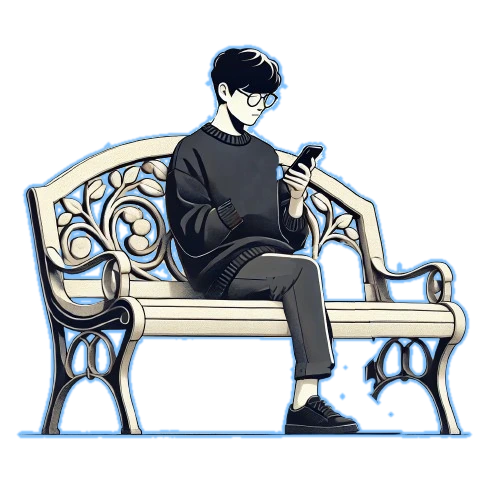
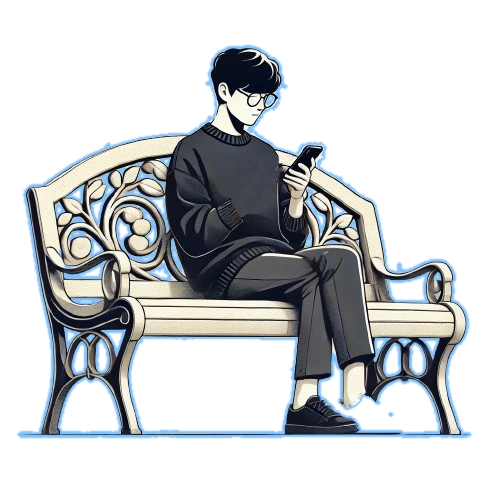
Escena del banco reconstruida desde el dibujo completo: sin costuras en la pierna ni en la mano
El cuerpo vuelve a llevar las dos piernas y las dos manos tal cual las dibujó Marco (bancoymarco.png); las
capas móviles son ahora solo el zapato delantero (pivota en el tobillo y da dos golpecitos con la punta cada
3,6 s) y la mano del móvil (±3° en la muñeca, alargada dentro del puño), con dos parches por encima (la
punta del zapato trasero y el puño del jersey) que tapan las juntas. Las capas antiguas estaban desplazadas
39 px y el recorte de la pierna llevaba un pie repintado con un corte recto: de ahí la costura. En reposo el
compuesto reproduce el dibujo píxel a píxel; el brillo del móvil queda sobre la pantalla; con
prefers-reduced-motion se muestra la pose dibujada. tools/images.py admite --only bench. 18 jobs en
tools/shots/bench.json (reposo, extremos, reduced-motion, móvil, DPR 2 y 3).

Changed region(s): [[0.54, 0.48, 0.78, 0.84], [0.54, 0.33, 0.57, 0.36]]

diff --git a/src/styles/site.css b/src/styles/site.css
@@ -560,11 +560,16 @@
     background: radial-gradient(60% 46% at 28.7% 15.2%, rgba(41, 151, 255, 0.22), rgba(41, 151, 255, 0.06) 45%, transparent 72%);
   }
   .scene__lamp { inset: 0; width: 100%; height: 100%; z-index: 2; }
+  /* capas recortadas del dibujo de 500 px (tools/images.py, build_bench): left = x/5 %,
+     top = 20 % + 0,16·y %, width = w/5 %. En reposo reproducen el dibujo; al moverse, la
+     puntera trasera tapa el talón del zapato y el puño tapa la muñeca */
   .scene__body { left: 0; top: 20%; width: 100%; height: auto; z-index: 3; }
-  .scene__leg { left: 44.8%; top: 56.2%; width: 35%; height: auto; z-index: 4; transform-origin: 30% 12%; }
-  .scene__hand { left: 43%; top: 43.7%; width: 19.2%; height: auto; z-index: 5; transform-origin: 12% 88%; }
+  .scene__leg { left: 65.4%; top: 82.72%; width: 17%; height: auto; z-index: 4; transform-origin: 16.5% 21.4%; } /* zapato; pivota en el tobillo */
+  .scene__toe { left: 64.8%; top: 83.52%; width: 7.2%; height: auto; z-index: 5; }
+  .scene__hand { left: 45%; top: 44.8%; width: 13.8%; height: auto; z-index: 6; transform-origin: 10% 85.9%; } /* pivota en la muñeca, dentro del puño */
+  .scene__cuff { left: 44%; top: 51.36%; width: 4.2%; height: auto; z-index: 7; }
   .scene__phone {
-    left: 48.5%; top: 35%; width: 8%; height: 8%; z-index: 6; opacity: 0.55; mix-blend-mode: screen;
+    left: 55.2%; top: 40.8%; width: 9.6%; height: 7.68%; z-index: 8; opacity: 0.55; mix-blend-mode: screen;
     background: radial-gradient(closest-side, var(--action) 0%, rgba(41, 151, 255, 0.4) 45%, transparent 100%);
     filter: blur(4px);
   }
@@ -1182,14 +1187,20 @@
   html.js .timeline__item[data-reveal] { transform: translateY(12px); }
 
   /* escena del banco */
-  .scene__leg { animation: swing 2.4s var(--ease-in-out) infinite alternate; }
+  .scene__leg { animation: foot-tap 3.6s linear infinite; }
   .scene__hand { animation: hand-tilt 4s var(--ease-in-out) infinite alternate; }
   .scene__stars--a { animation: twinkle-a 3s ease-in-out infinite alternate; }
   .scene__stars--b { animation: twinkle-b 5s ease-in-out infinite alternate; }
   .scene__lamp-head { animation: flicker 9s linear infinite; }
   .scene__phone { animation: phone-glow 4s ease-in-out infinite alternate; }
   .scene.is-offscreen *, .scene.is-hidden * { animation-play-state: paused !important; }
-  @keyframes swing { from { transform: rotate(-6deg); } to { transform: rotate(6deg); } }
+  /* dos golpecitos con la punta y una pausa; solo hacia arriba, así la suela nunca baja del suelo */
+  @keyframes foot-tap {
+    0%, 17% { transform: rotate(0deg); animation-timing-function: ease-out; }
+    9% { transform: rotate(-7deg); animation-timing-function: ease-in; }
+    26% { transform: rotate(-6deg); animation-timing-function: ease-in; }
+    34%, 100% { transform: rotate(0deg); }
+  }
   @keyframes hand-tilt { from { transform: rotate(3deg); } to { transform: rotate(-3deg); } }
   @keyframes twinkle-a { from { opacity: 0.55; } to { opacity: 0.2; } }
   @keyframes twinkle-b { from { opacity: 0.2; } to { opacity: 0.55; } }
@@ -1227,7 +1238,7 @@
     .lava__blob--3 { scale: 1.16 .86; }
     .lava__blob--4 { scale: .92 1.14; }
     .lava__blob--2 { scale: 1.04 .96; }
-    .scene__leg { transform: rotate(2deg); }
+    .scene__leg, .scene__hand { transform: none; } /* la pose del dibujo, con el pie apoyado */
     .scene__stars { opacity: 0.4; }
     .card:hover .card__media img { transform: none; }
     .arrow, .btn, .chip, .action, .nav { transition: none; }

diff --git a/index.html b/index.html
@@ -738,8 +738,10 @@
               <div class="scene__stars scene__stars--b" aria-hidden="true"></div>
               <div class="scene__cone" aria-hidden="true"></div>
               <img class="scene__body ill" src="/src/assets/img/bench/body.webp" srcset="/src/assets/img/bench/body.webp 500w, /src/assets/img/bench/body@2x.webp 1000w" sizes="(min-width: 1080px) 440px, 90vw" width="500" height="500" loading="lazy" decoding="async" alt="">
-              <img class="scene__leg" src="/src/assets/img/bench/leg.webp" srcset="/src/assets/img/bench/leg.webp 175w, /src/assets/img/bench/leg@2x.webp 350w" sizes="(min-width: 1080px) 154px, 32vw" width="175" height="236" loading="lazy" decoding="async" alt="">
-              <img class="scene__hand" src="/src/assets/img/bench/hand.webp" srcset="/src/assets/img/bench/hand.webp 83w, /src/assets/img/bench/hand@2x.webp 166w" sizes="(min-width: 1080px) 85px, 18vw" width="83" height="78" loading="lazy" decoding="async" alt="">
+              <img class="scene__leg" src="/src/assets/img/bench/leg.webp" srcset="/src/assets/img/bench/leg.webp 85w, /src/assets/img/bench/leg@2x.webp 170w" sizes="(min-width: 1080px) 74.8px, 15.3vw" width="85" height="42" loading="lazy" decoding="async" alt="">
+              <img class="scene__toe" src="/src/assets/img/bench/toe.webp" srcset="/src/assets/img/bench/toe.webp 36w, /src/assets/img/bench/toe@2x.webp 72w" sizes="(min-width: 1080px) 31.68px, 6.48vw" width="36" height="36" loading="lazy" decoding="async" alt="">
+              <img class="scene__hand" src="/src/assets/img/bench/hand.webp" srcset="/src/assets/img/bench/hand.webp 69w, /src/assets/img/bench/hand@2x.webp 138w" sizes="(min-width: 1080px) 60.72px, 12.42vw" width="69" height="64" loading="lazy" decoding="async" alt="">
+              <img class="scene__cuff" src="/src/assets/img/bench/cuff.webp" srcset="/src/assets/img/bench/cuff.webp 21w, /src/assets/img/bench/cuff@2x.webp 42w" sizes="(min-width: 1080px) 18.48px, 3.78vw" width="21" height="27" loading="lazy" decoding="async" alt="">
               <div class="scene__phone" aria-hidden="true"></div>
             </div>
           </div>

diff --git a/tools/images.py b/tools/images.py
@@ -1,12 +1,12 @@
 #!/usr/bin/env python3
 """Genera los assets de imagen del portafolio v2 a partir de los originales.
 
-Uso (desde la raíz del repo):  python tools/images.py
+Uso (desde la raíz del repo):  python tools/images.py  [--only bench|rig|hero|projects]
 Requiere: Pillow, numpy, scipy  (tools/requirements.txt)
 
 Salidas en src/assets/img/:
   rig/       base, lips, eyes, brow-l, brow-r, glasses, hand, cup (+ @2x), fallback (+ @2x)
-  bench/     body, leg, hand (+ @2x)
+  bench/     body, leg (zapato), toe, hand, cuff (+ @2x)
   character/ hero-bust-800, hero-bust-1024
   projects/  bot, tareas, nakoa, cinema en 640/960/1280 (o el ancho nativo si es menor)
 Y la geometría medida del rig en tools/rig-geometry.json (unidades rig-1000).
@@ -14,6 +14,7 @@ Y la geometría medida del rig en tools/rig-geometry.json (unidades rig-1000).
 from __future__ import annotations
 
 import json
+import sys
 from pathlib import Path
 
 import numpy as np
@@ -246,20 +247,180 @@ def build_rig() -> None:
 
 
 # ------------------------------------------------------------------------- bench
+# La escena se reconstruye a partir del dibujo COMPLETO (bancoymarco.png) y de la version del
+# autor sin el pie delantero ni la mano del movil (bancomarcoamp.png: jersey pintado bajo la
+# mano y retoques sueltos, como el cristal derecho de las gafas). Asi, en reposo, las capas
+# superpuestas dan exactamente el dibujo (con esos retoques) y las juntas quedan tapadas:
+#   body  el cuerpo, con la pierna delantera entera salvo el zapato; lleva el rim (estatico)
+#   leg   el zapato delantero: da golpecitos con la punta pivotando en el tobillo
+#   toe   la puntera del zapato trasero, que en el dibujo tapa el talon del delantero
+#   hand  la mano del movil, alargada ~9 px por dentro del puno; pivota en la muneca
+#   cuff  el puno de la manga, por encima de la mano
+# Todo en el lienzo de 500 px del dibujo; el CSS coloca cada capa por su caja (se imprime).
+BENCH_FULL, BENCH_AMP = "bancoymarco.png", "bancomarcoamp.png"
+BENCH_HAND_AT = (220, 144)  # hand.png sobre el dibujo completo (error medio ~1 nivel)
+# pivote del pie: el tobillo, bajo el borde trasero del zapato. Asi el borde no resbala sobre
+# el calcetin; lo que se desliza (~4 px) es el talon, que queda detras de la puntera trasera
+BENCH_ANKLE = (341.0, 401.0)
+BENCH_CUT = ((232.0, 200.0), (240.5, 215.0))  # corte recto de la muneca = borde del puno
+BENCH_WRIST_DEPTH = 5.0  # el pivote de la mano va 5 px dentro del puno
+# Primera fila del zapato en cada columna (x): por encima quedan el calcetin y la pata del
+# banco, que no se mueven. Medido a mano sobre el dibujo (x <= 342: 397; x >= 373: 393).
+BENCH_COLLAR = {
+    343: 403, 344: 404, 345: 405, 346: 405, 347: 405, 348: 405, 349: 405, 350: 404, 351: 404,
+    352: 403, 353: 403, 354: 402, 355: 402, 356: 401, 357: 398, 358: 396, 359: 395, 360: 394,
+    361: 393, 362: 392, 363: 392, 364: 392, 365: 392, 366: 393, 367: 393, 368: 393, 369: 394,
+    370: 394, 371: 394, 372: 394,
+}
+
+
+def _premul(a: np.ndarray) -> np.ndarray:
+    return a[..., :3] * (a[..., 3:4] / 255.0)
+
+
+def _rim_alpha(mask: np.ndarray, radius: int, opacity: float = 0.6) -> np.ndarray:
+    """La misma luz de borde que bake_rim, como alfa 0..1."""
+    dil = ndi.binary_dilation(mask, iterations=radius)
+    return np.clip(ndi.gaussian_filter(dil.astype(np.float32) * opacity, 0.8), 0, 1)
+
+
+def _nearest_fill(arr: np.ndarray, src: np.ndarray, dst: np.ndarray) -> None:
+    """Pinta los pixeles dst con el color (opaco) del pixel src mas cercano."""
+    _, (iy, ix) = ndi.distance_transform_edt(~src, return_indices=True)
+    ys, xs = np.where(dst)
+    arr[ys, xs, :3] = arr[iy[ys, xs], ix[ys, xs], :3]
+    arr[ys, xs, 3] = 255
+
+
+def _row_fill(arr: np.ndarray, src: np.ndarray, dst: np.ndarray, reach: int) -> None:
+    """Pinta dst con el pixel src mas cercano a su derecha en la misma fila (o el mas cercano)."""
+    _, (iy, ix) = ndi.distance_transform_edt(~src, return_indices=True)
+    for y, x in zip(*np.where(dst)):
+        right = np.flatnonzero(src[y, x : x + reach])
+        sy, sx = (y, x + right[0]) if len(right) else (iy[y, x], ix[y, x])
+        arr[y, x, :3] = arr[sy, sx, :3]
+        arr[y, x, 3] = 255
+
+
+def bench_masks(F: np.ndarray, A: np.ndarray) -> dict:
+    """Mascaras en el lienzo de 500 a partir del completo (F) y el amputado (A)."""
+    H, W = F.shape[:2]
+    yy, xx = np.mgrid[0:H, 0:W]
+    diff = np.abs(_premul(F) - _premul(A)).sum(-1) + np.abs(F[..., 3] - A[..., 3])
+    lab, _ = ndi.label(diff > 12)
+    leg_all = lab == lab[330, 350]  # la pierna delantera que el autor borro
+    # zapato: lo borrado por debajo del borde del calcetin
+    top = np.full(W, 393)
+    top[:343] = 397
+    for x, y in BENCH_COLLAR.items():
+        top[x] = y
+    zone = (yy >= top[xx]) & (xx >= 333) & (xx <= 412) & (yy <= 432)
+    shoe = ndi.binary_fill_holes(leg_all & zone)
+    shoe |= ndi.binary_dilation(shoe, iterations=2) & zone & (F[..., 3] > 0) & (A[..., 3] < 8)
+    # puntera del zapato trasero (por delante del talon del delantero); la fila 432 a la
+    # derecha es la sombra que el autor pinto bajo la suela y se queda en el cuerpo
+    # (semitransparente solo contra el zapato: contra el fondo, doblaria el borde del cuerpo)
+    toe = (xx >= 324) & (xx <= 362) & (yy >= 396) & (yy <= 432)
+    toe &= (A[..., 3] > 250) | ((A[..., 3] > 0) & ndi.binary_dilation(shoe, iterations=1))
+    toe &= ~((yy == 432) & (xx >= 356)) & ~(leg_all & ~shoe)
+    # talon oculto tras la puntera (asoma al girar) y los pixeles del zapato pegados a ella,
+    # que llevan mezclado el perfil claro de la puntera: se rehacen con la propia suela
+    hidden = ndi.binary_dilation(shoe, iterations=6) & toe & ~shoe
+    hidden |= shoe & ndi.binary_dilation(toe, iterations=1) & (yy >= 414)
+    # mano: lo borrado alrededor de hand.png, sin pasar del corte de la muneca
+    hp = np.zeros((H, W), np.float32)
+    ha = np.array(rgba(OLD / "hand.png"))[..., 3] / 255.0
+    hx, hy = BENCH_HAND_AT
+    hp[hy : hy + ha.shape[0], hx : hx + ha.shape[1]] = ha
+    (x0, y0), (x1, y1) = BENCH_CUT
+    t = np.array([x1 - x0, y1 - y0])
+    cut_len = float(np.hypot(*t))
+    t /= cut_len
+    n = np.array([t[1], -t[0]])  # normal hacia la mano
+    u = (xx + 0.5 - x0) * n[0] + (yy + 0.5 - y0) * n[1]
+    v = (xx + 0.5 - x0) * t[0] + (yy + 0.5 - y0) * t[1]
+    hand = (((lab == lab[180, 262]) & ndi.binary_dilation(hp > 0.05, iterations=2)) | (hp > 0.5)) & (u > -0.5)
+    # puno: una franja de 12 px mas alla del corte; la mano se alarga 9 px por debajo
+    cuff = (u >= -12) & (u < 2.5) & (v >= -3) & (v <= cut_len + 3) & ~hand
+    ext = (u >= -9) & (u < 0.5) & (v >= 0.3) & (v <= cut_len - 0.3) & ~hand
+    wrist = np.array([x0, y0]) - BENCH_WRIST_DEPTH * n + cut_len / 2 * t
+    return {"leg_all": leg_all, "shoe": shoe, "toe": toe, "hidden": hidden, "hand": hand,
+            "cuff": cuff, "ext": ext, "wrist": (float(wrist[0]), float(wrist[1]))}
+
+
+def bench_layers(F: np.ndarray, A: np.ndarray, M: dict, k: int) -> dict:
+    """Capas a tamano completo (k = 1 o 2) en float RGBA; las mascaras de M son de 1x."""
+    up = (lambda m: m) if k == 1 else (lambda m: np.repeat(np.repeat(m, k, 0), k, 1))
+    shoe, toe, hand, cuff = up(M["shoe"]), up(M["toe"]), up(M["hand"]), up(M["cuff"])
+    hidden, ext = up(M["hidden"]), up(M["ext"])
+    # a 2x el reescalado mezcla vecinos: la pierna del completo se toma con 3 px de margen
+    keep_f = ndi.binary_dilation(M["leg_all"] & ~M["shoe"], iterations=3) & ~M["shoe"] & ~M["toe"]
+    body = A.copy()
+    body[up(keep_f)] = F[up(keep_f)]
+    # el amputado deja un hueco transparente entre los nudillos y el otro brazo: en reposo lo
+    # tapa la mano, pero al girar asomaria (y el rim lo pintaria de azul); se rellena de jersey
+    opaque = body[..., 3] > 0
+    lab, _ = ndi.label(ndi.binary_fill_holes(opaque) & ~opaque)
+    ids = np.unique(lab[ndi.binary_dilation(up(M["hand"]), iterations=2 * k)])
+    hole = np.isin(lab, ids[ids > 0])
+    fill = hole | (ndi.binary_dilation(hole, iterations=k) & (body[..., 3] < 255))
+    _nearest_fill(body, (body[..., 3] > 250) & ~fill, fill)
+    body[fill, :3] = ndi.gaussian_filter(body[..., :3], (k, k, 0))[fill]
+    # bajo el borde del zapato el cuerpo sigue opaco (calcetin y pata del banco): si no, al
+    # reescalar, el fondo y el rim asomarian por la junta. Ni desde el suelo, que es lo que se
+    # ve bajo la suela al levantar la punta, ni desde el zapato trasero (detras del talon hay
+    # fondo)
+    low = np.mgrid[0 : F.shape[0], 0 : F.shape[1]][0] < 428 * k
+    src = (body[..., 3] > 250) & ~shoe & low & ~ndi.binary_dilation(toe, iterations=2 * k)
+    band = shoe & low & ndi.binary_dilation(src, iterations=3 * k) & (F[..., 3] > 250)
+    _nearest_fill(body, src, band)
+    leg = np.zeros_like(F)
+    leg[shoe] = F[shoe]
+    _row_fill(leg, shoe & (F[..., 3] > 250) & ~hidden, hidden, 16 * k)
+    toe_l = np.zeros_like(F)
+    toe_l[toe] = A[toe]
+    hand_l = np.zeros_like(F)
+    hand_l[hand] = F[hand]
+    _nearest_fill(hand_l, hand & (F[..., 3] > 250), ext)
+    cuff_l = np.zeros_like(F)
+    cuff_l[cuff] = F[cuff]
+    # rim: el del cuerpo va horneado en el cuerpo; el zapato lleva solo lo que anade su
+    # silueta al rim del dibujo en reposo, asi se mueve con el y en reposo suma lo mismo
+    radius = 2 * k
+    r_body = _rim_alpha(body[..., 3] > 8, radius)
+    r_full = _rim_alpha((body[..., 3] > 8) | (leg[..., 3] > 8), radius)
+    r_leg = np.clip((r_full - r_body) / np.maximum(1 - r_body, 1e-3), 0, 1)
+    r_leg[leg[..., 3] > 250] = 0
+    rim = np.zeros_like(F)
+    rim[..., :3] = RIM
+    rim[..., 3] = r_leg * 255
+    leg_img = Image.fromarray(rim.astype(np.uint8), "RGBA")
+    leg_img.alpha_composite(Image.fromarray(np.clip(leg, 0, 255).astype(np.uint8), "RGBA"))
+    img = lambda a: Image.fromarray(np.clip(a, 0, 255).astype(np.uint8), "RGBA")  # noqa: E731
+    return {"body": img(body), "leg": leg_img, "toe": img(toe_l), "hand": img(hand_l), "cuff": img(cuff_l)}
+
+
 def build_bench() -> None:
-    body = rgba(OLD / "bancomarcoamp.png")
-    leg = rgba(OLD / "pierna.png")
-    hand = rgba(OLD / "hand.png")
-    save_webp(bake_rim(body, 2), "bench/body.webp", quality=92)
-    save_webp(bake_rim(upscale2x(body), 4), "bench/body@2x.webp", quality=90)
-    save_webp(leg, "bench/leg.webp", lossless=True)
-    save_webp(upscale2x(leg), "bench/leg@2x.webp", lossless=True)
-    save_webp(hand, "bench/hand.webp", lossless=True)
-    save_webp(upscale2x(hand), "bench/hand@2x.webp", lossless=True)
-    for name, im in (("body", body), ("leg", leg), ("hand", hand)):
-        a = np.array(im)[..., 3] > 32
+    f1, a1 = rgba(OLD / BENCH_FULL), rgba(OLD / BENCH_AMP)
+    F, A = np.array(f1, np.float32), np.array(a1, np.float32)
+    M = bench_masks(F, A)
+    L1 = bench_layers(F, A, M, 1)
+    L2 = bench_layers(np.array(upscale2x(f1), np.float32), np.array(upscale2x(a1), np.float32), M, 2)
+    save_webp(bake_rim(L1["body"], 2), "bench/body.webp", quality=92)
+    save_webp(bake_rim(L2["body"], 4), "bench/body@2x.webp", quality=90)
+    pivots = {"leg": BENCH_ANKLE, "hand": M["wrist"]}
+    for name in ("leg", "toe", "hand", "cuff"):
+        a = np.array(L1[name])[..., 3] > 0
         ys, xs = np.where(a)
-        print(f"[bench] {name}: {im.size} visible {xs.min()},{ys.min()}-{xs.max()},{ys.max()}")
+        box = (int(xs.min()), int(ys.min()), int(xs.max()) + 1, int(ys.max()) + 1)
+        save_webp(L1[name].crop(box), f"bench/{name}.webp", lossless=True)
+        save_webp(L2[name].crop(tuple(2 * c for c in box)), f"bench/{name}@2x.webp", lossless=True)
+        x, y, w, h = box[0], box[1], box[2] - box[0], box[3] - box[1]
+        css = f"left: {x / 5:g}%; top: {20 + 0.16 * y:g}%; width: {w / 5:g}%;"
+        if name in pivots:
+            px, py = pivots[name]
+            css += f" transform-origin: {100 * (px - x) / w:.1f}% {100 * (py - y) / h:.1f}%;"
+        print(f"[bench] {name}: {w}x{h} en ({x},{y})  ->  {css}")
 
 
 # -------------------------------------------------------------------- character
@@ -307,10 +468,11 @@ def build_projects() -> dict:
 
 
 def main() -> None:
-    build_rig()
-    build_bench()
-    build_hero()
-    build_projects()
+    # --only bench (o rig, hero, projects) regenera solo esa parte
+    steps = {"rig": build_rig, "bench": build_bench, "hero": build_hero, "projects": build_projects}
+    only = sys.argv[sys.argv.index("--only") + 1].split(",") if "--only" in sys.argv else list(steps)
+    for name in only:
+        steps[name]()
     total = sum(s for _, s in REPORT)
     print("\n--- salidas ---")
     for rel, size in REPORT:
